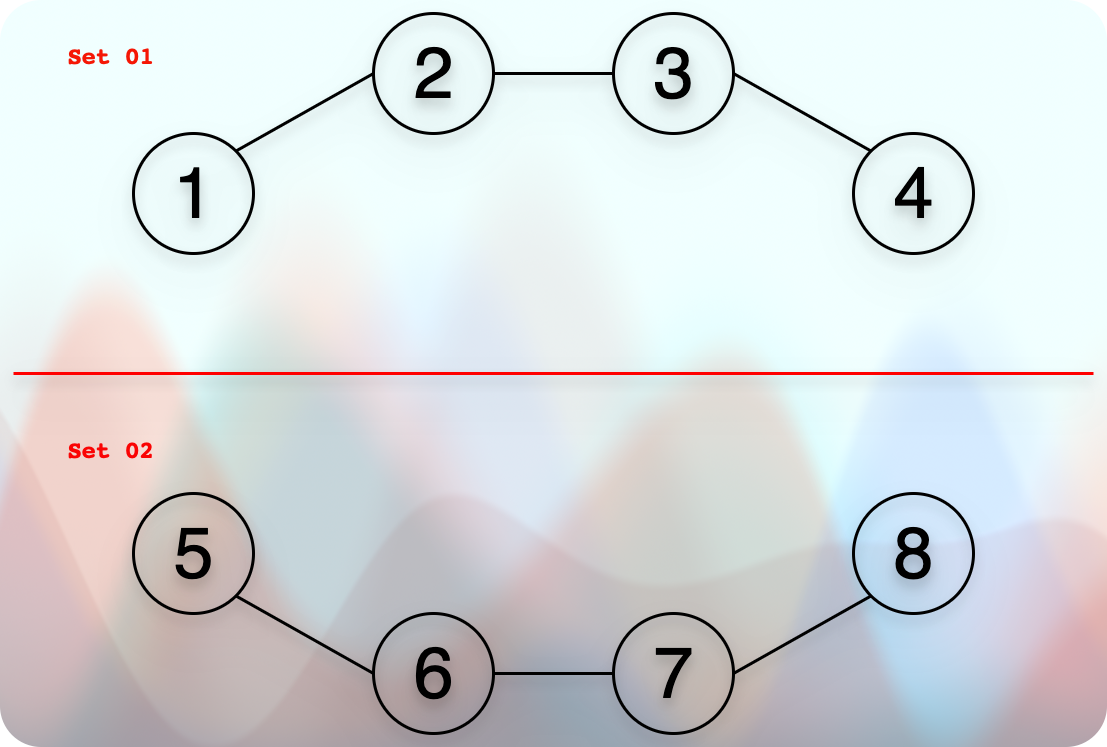
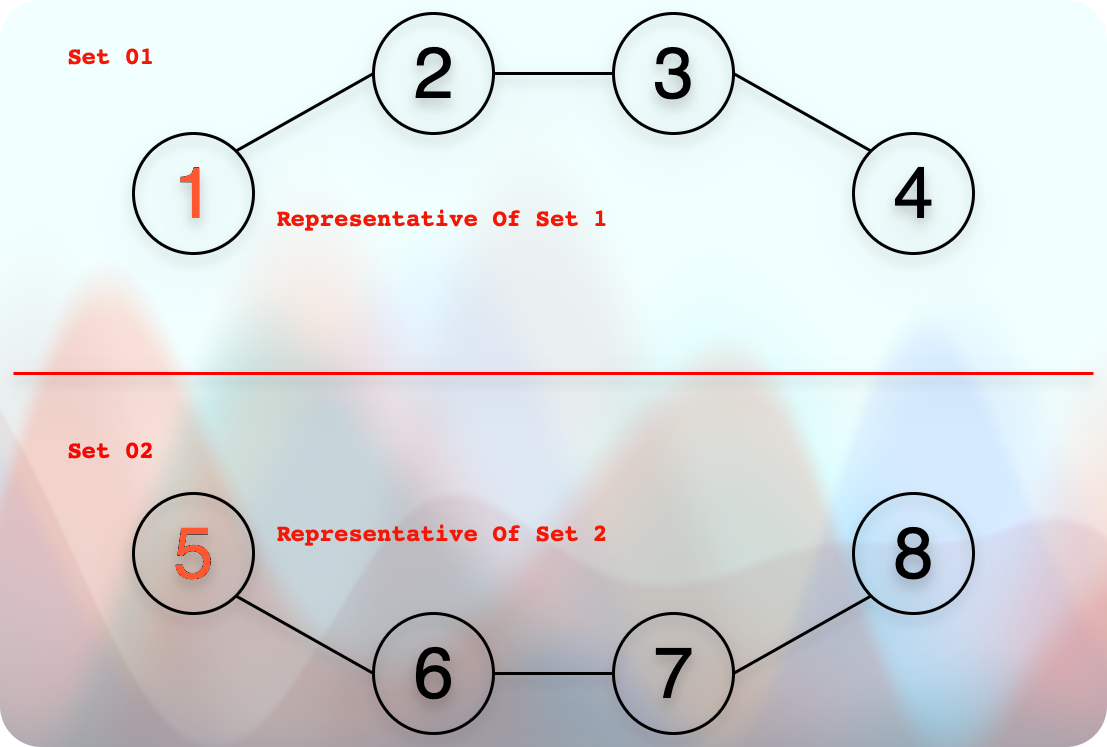
docs: explain disjoint sets naive implementations and operations | disjointSets.md, disjointSets02implementation.md | A part of the data structures. Reference: Coursera: UC San Diego:  Data Structures: Module 03: Priority Queues, Heaps, and Disjoint  Sets. | Lecture 14, 15, 16: Disjoint Sets: Introd
The commit explains the naive implementations of disjoint sets using arrays and linked lists, detailing their time complexities for find and union operations. It also clarifies core concepts like set representatives and updates the general disjoint sets documentation with more detailed explanations.

diff --git a/docs/dataStructures/coursera/ucSanDiego/module03priorityQueuesHeapsDisjointSets/section04DisjointSetsNaiveImplementation/disjointSets02implementation.md b/docs/dataStructures/coursera/ucSanDiego/module03priorityQueuesHeapsDisjointSets/section04DisjointSetsNaiveImplementation/disjointSets02implementation.md
@@ -1,0 +1,48 @@
+# Disjoint Sets (Union-Find) Implementation
+
+## Naive Implementation: Using Arrays
+
+![160dsuNaiveArrayImplementation.png](../../../../../../assets/images/dataStructures/ucSanDiego/module03priorityQueuesHeapsDisjointSets/section03disjointSetsUnionFind/160dsuNaiveArrayImplementation.png)
+
+* Suppose we have 3 sets:
+  * Set-1 is `{9, 3, 2, 4, 7}`
+  * Set-2 is `{5}`
+  * Set-3 is `{6, 1, 8}`
+* Each set has a leader (a representative, a parent).
+* And to be consistent in selecting a representative, we select the smallest element of a set as a representative of that set.
+  * For Set-1, it is `2`.
+  * For Set-2, it is `5`.
+  * For Set-3, it is `1`.
+* The `find` operation on a particular set to know their representative takes `O(1)` time.
+  * For example, `find(7)` gives `2`, which means that the representative of `7` is `2`.
+  * Similarly, `find(5)` gives `5` and `find(8)` gives `1`.
+* Now, if we perform the `union` operation between set-1 and set-3, we need to update the representative of one of them.
+* It means that we have to find the representative of both the sets, set-1 and set-3.
+* We compare the representatives of set-1 and set-3.
+* Then, we select the smallest one to be consistent in our representative selection process.
+* In our example, the representative of set-3 is the smallest one.
+* So, we need to scan through the entire array, find the elements of set-1, and replace their old representative `2` with `1`.
+* Clearly, this is a linear process and take `O(n)` time for the `union` operation.
+* So, the naive implementation using an array gives:
+  * `O(1)` to get the representative (parent) using the `find` operation.
+  * `O(n)` to perform the `union` operation.
+
+## Naive Implementation: Using LinkedList
+
+![170dsuNaiveLinkedListImplementation.png](../../../../../../assets/images/dataStructures/ucSanDiego/module03priorityQueuesHeapsDisjointSets/section03disjointSetsUnionFind/170dsuNaiveLinkedListImplementation.png)
+
+* Suppose we have 2 sets:
+  * Set-1 is `{9, 3, 2, 4, 7}`
+  * Set-2 is `{6, 1, 8}`
+* Each set must have a representative (a leader, a parent).
+* To be consistent in selecting a representative, we select `tail` as the parent (representative) of the set.
+* Whenever we perform the `union` operation between two sets, the `tail` of one set would point to the `head` of another set.
+* It means that we can perform the `union` operation in `O(1)` time.
+* However, if we want to find the parent of a particular element, it takes `O(n)` time.
+* For example, if we perform `find(4)`, then we need to confirm two things. 
+  * We need to confirm that `4` is a part of the set we are checking.
+    * So, we start our traversal from the `head` of the set (a linked list) and cover each element to encounter the element `4` during the journey.
+    * If we face the element `4` during the journey, the next thing is to find the `tail` of that linked list (set).
+    * If we don't see the element `4` and we finish travelling the linked list, the element `4` is not a part of this linked list.
+  * If we get the element `4` during the traversal, we need to continue the traversal till we reach the `tail`. The `tail` is the representative of the element `4` that we need to return.
+* So, the `find` operation is a linear operation that takes `O(n)` time.

diff --git a/docs/dataStructures/coursera/ucSanDiego/module03priorityQueuesHeapsDisjointSets/section04DisjointSetsNaiveImplementation/disjointSets.md b/docs/dataStructures/coursera/ucSanDiego/module03priorityQueuesHeapsDisjointSets/section04DisjointSetsNaiveImplementation/disjointSets.md
@@ -30,7 +30,9 @@
 
 * The image shows a forest, where we have several independent trees without any children.
   * [Forest tree reference](../../module01BasicDataStructures/section03trees/trees.md#forest)
-  * They are disconnected. They are disjointed.
+  * They are disconnected. They are disjointed. They are independent.
+* Each tree has only one element.
+* It means that the element itself is a parent, a leader, a representative of that set.
 * We can create a child-parent relationship between them, as shown in the image below:
 
 ![010disjointSetUnionFindIntro_disjoint_sets.png](../../../../../../assets/images/dataStructures/ucSanDiego/module03priorityQueuesHeapsDisjointSets/section03disjointSetsUnionFind/010disjointSetUnionFindIntro_disjoint_sets.png)
@@ -39,12 +41,17 @@
 * So, we call them **Disjoint Sets**.
 * In the technical term, we would say:
   * When the intersection of sets is `NULL,` we call such sets **Disjoint Sets**.
+* The leader (parent, representative) of the "set 1" is `1`.
+* And the leader (parent, representative) of the "set 2" is `5`.
 
 ## Find
 
-* This is the operation that tells about the parent set of the target element.
+![010disjointSetUnionFindIntro_disjoint_sets.png](../../../../../../assets/images/dataStructures/ucSanDiego/module03priorityQueuesHeapsDisjointSets/section03disjointSetsUnionFind/010disjointSetUnionFindIntro_disjoint_sets.png)
+
+* This is the operation that tells about the parent (leader, representative) of the element.
   * In other words, it tells us about the set the element belongs to.
-* For example, `1` belongs to `set 1`. `7` belongs to `set 2`.
+* For example, if we call `find(2)`, then it would give us `1`.
+* Similarly, if we call `find(7)`, it would give us `5`.
 
 ## Union
 
@@ -53,15 +60,18 @@
 * When we get two elements to perform the union operation on them.
   * First, we find their sets. Only if they belong to two different sets can we perform the union operation on them.
   * Second, when we perform a union operation on two elements, we get a different set.
+  * Due to that, a particular set might get a different leader (representative, parent).
+  * For example, performing the union operation on `(4, 8)` forced all the elements of the old set-02, which are the elements 5, 6, 7, and 8, to replace their old representative `5` with the new representative `1`.
+  * Hence, when we perform the `union` operation between two sets, one of the sets needs to update the representative for all the elements.
 
 ## Array & Graph Representation
 
 ![42arraysAndGraphRepresentation.png](../../../../../../assets/images/dataStructures/ucSanDiego/module03priorityQueuesHeapsDisjointSets/section03disjointSetsUnionFind/42arraysAndGraphRepresentation.png)
 
-* We have two data:
+* We have two types of data:
   * The element value.
   * The parent value (or the set value it belongs to).
-* Using these two data, we do a couple of things:
+* Using these two types of data, we do a couple of things:
   * We can find if we have a particular element (the `find` operation).
   * We can find the set of a particular element.
   * We can find whether two elements belong to the same set (parent).
